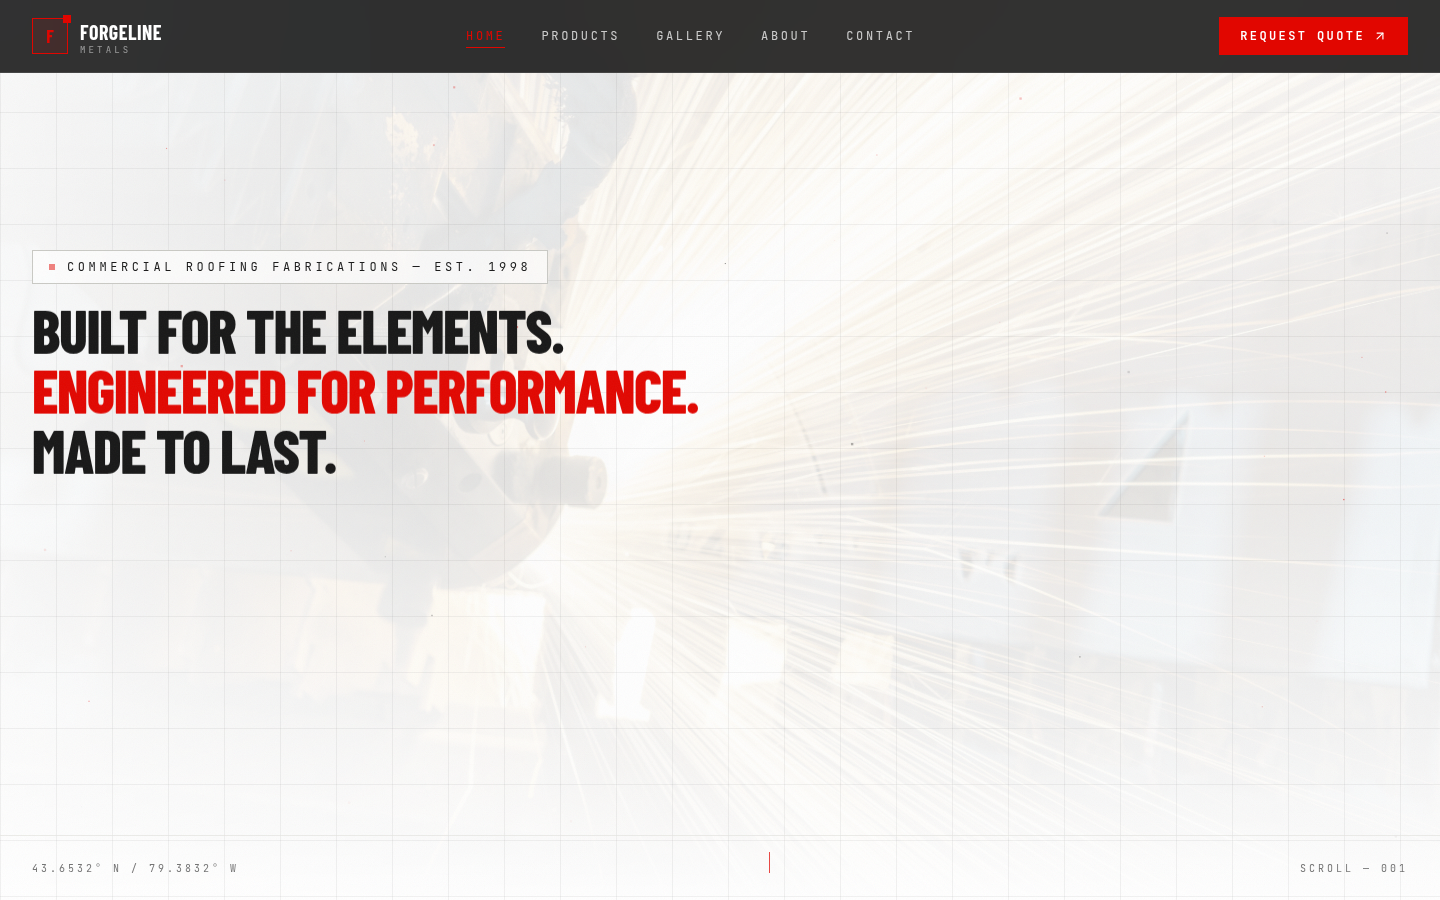
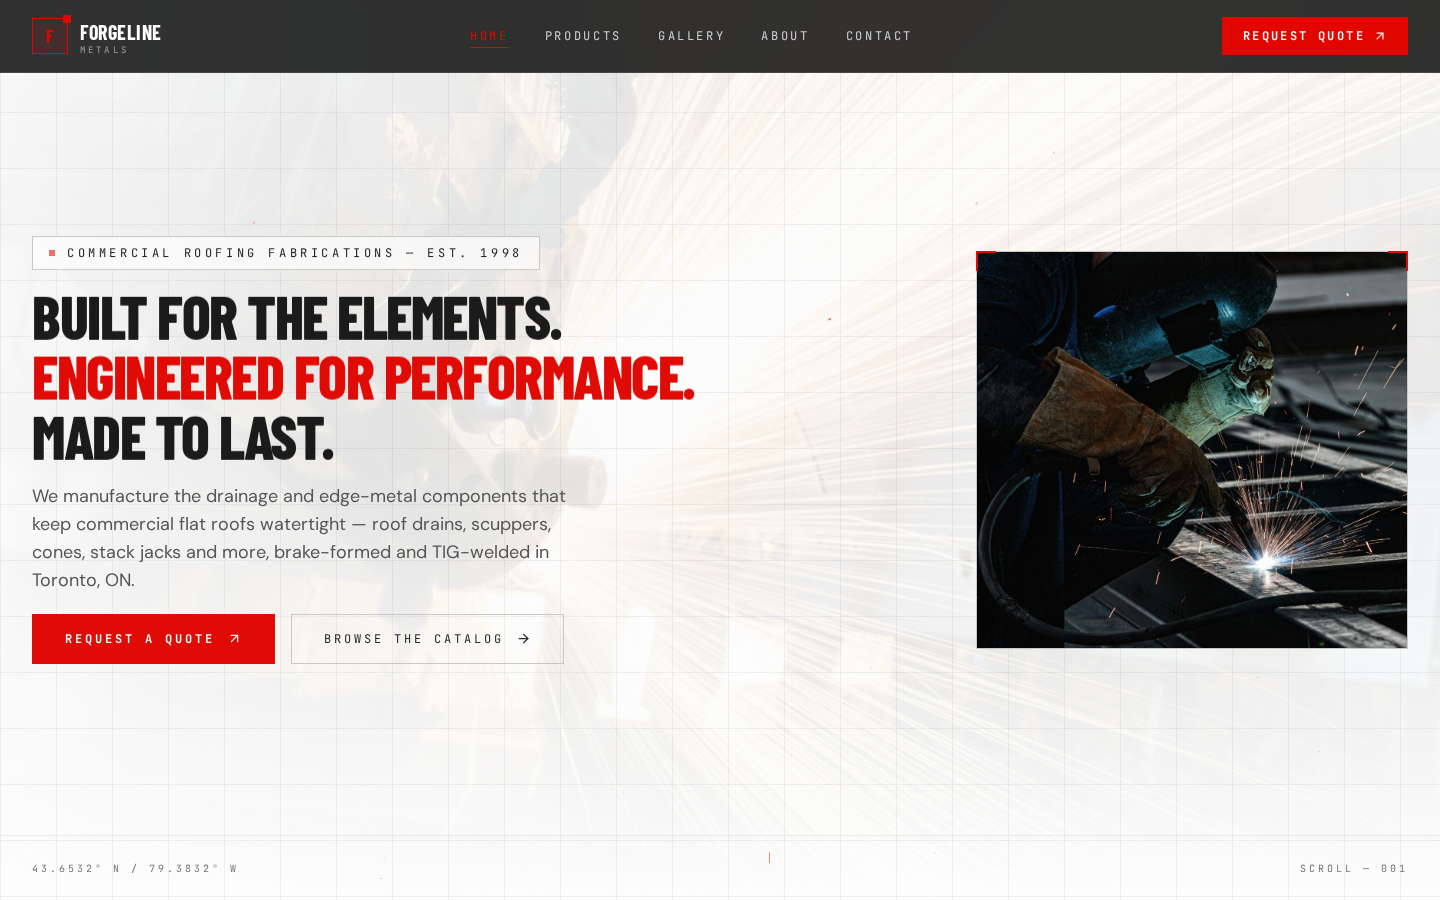
Both thumbnails now perfectly mirror the actual home page hero of each site (Forgeline Metals with welder + "Built for the elements. Engineered for performance. Made to last.", Carter Electric with pylons + "Powering the modern world..."). Title renamed to **Forgeline Metals** with the category **"C
Emergent-Commit-Key: 4336657681709aa6f2fbf2c1ef15ea12dada07782ab2f730d56e5557c7a253f7

diff --git a/frontend/src/App.js b/frontend/src/App.js
@@ -10,8 +10,8 @@ const HERO_BG =
 const PORTFOLIO = [
   {
     num: "01",
-    title: "Roofing Supply",
-    category: "Wholesale Roofing Materials",
+    title: "Forgeline Metals",
+    category: "Commercial Roofing Fabrications",
     img: "/portfolio/roofing-supply-hero.png",
     href: "/roofing-supply/",
     pack: "Standard",
